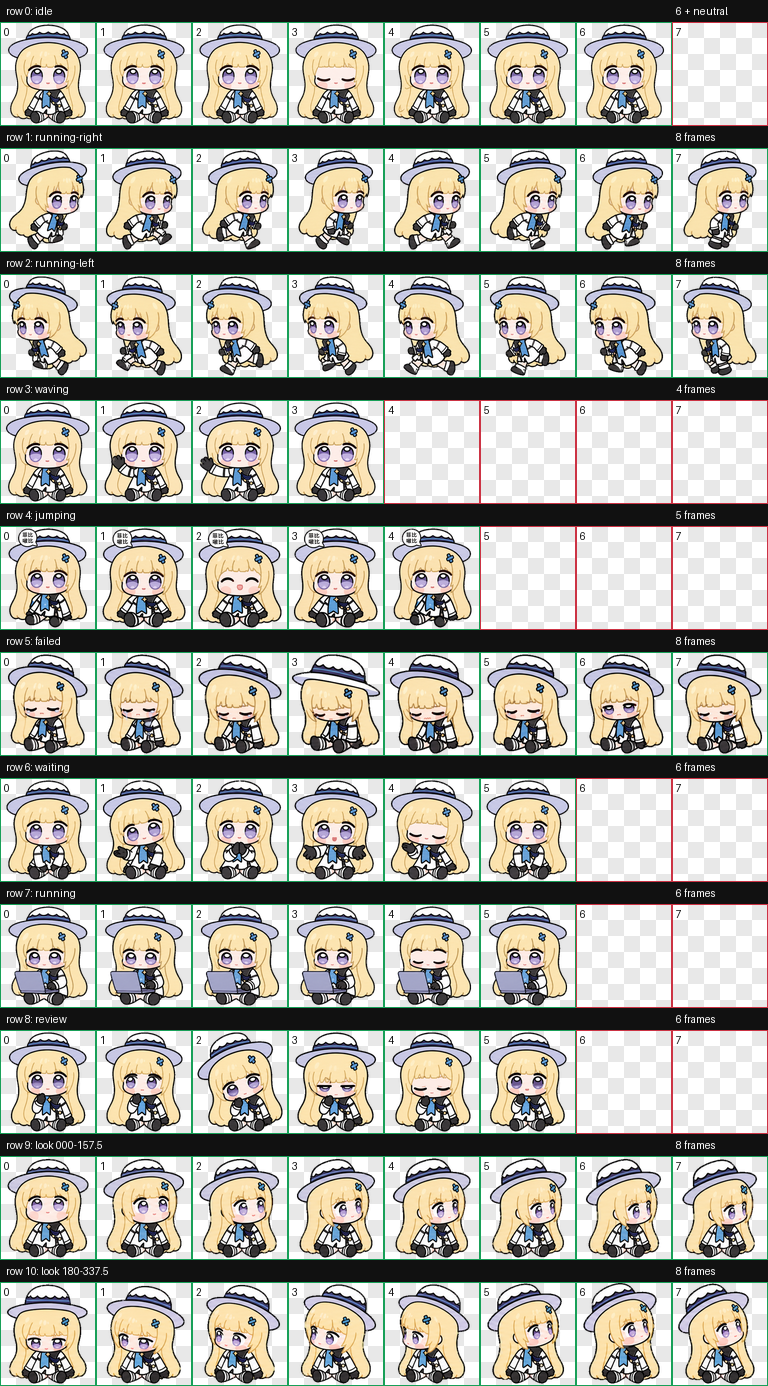
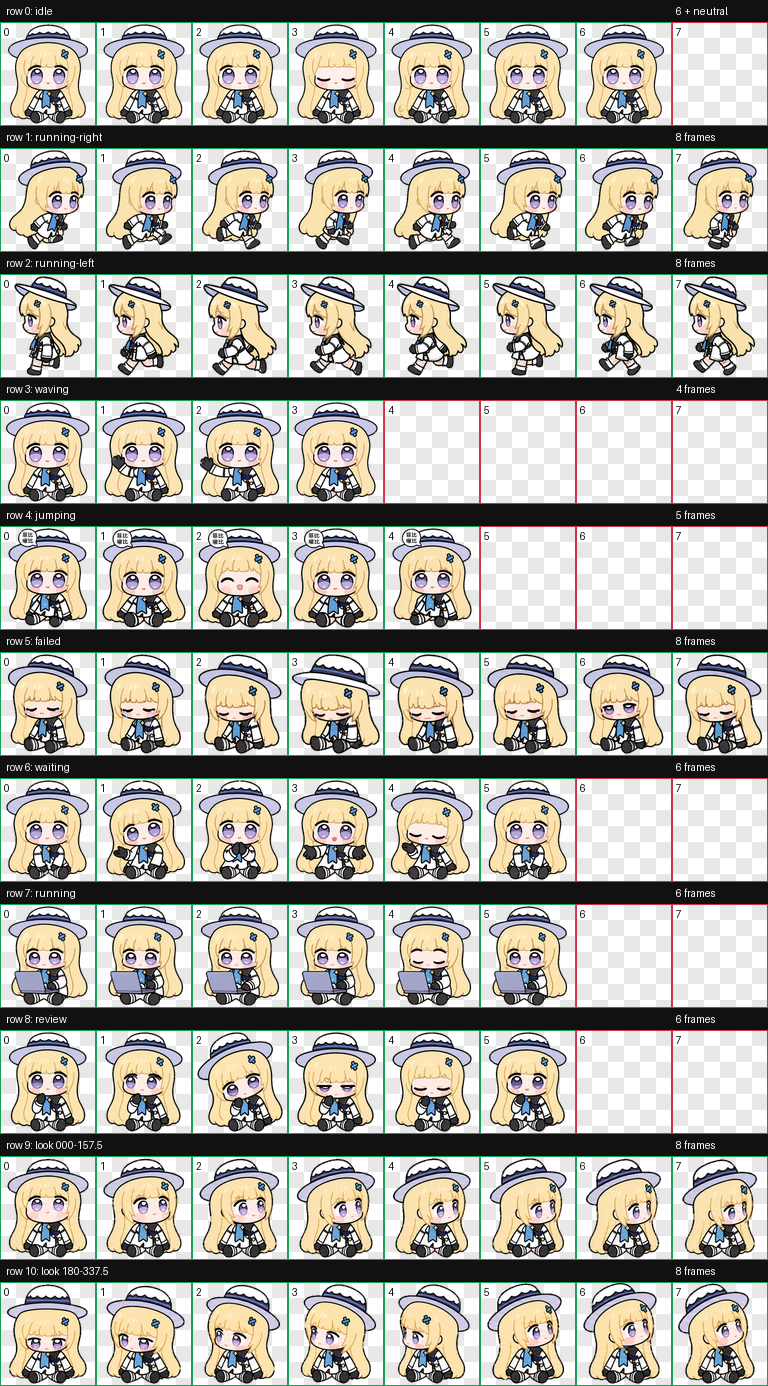
Redraw left-moving animation

Changed region(s): [[0.125, 0.1861, 1.0, 0.2792], [0.0, 0.1861, 0.125, 0.2792]]

diff --git a/README.en.md b/README.en.md
@@ -6,13 +6,14 @@ Feibi is a chibi animated pet for Codex Desktop. She uses a soft, low-contrast p
 
 ![Feibi state overview](assets/preview-contact-sheet.png)
 
-| Active task | Happy bubble |
-| --- | --- |
-| ![Feibi coding on a laptop](assets/running-laptop.gif) | ![Feibi happy comic bubble](assets/happy-bubble.gif) |
+| Moving left | Active task | Happy bubble |
+| --- | --- | --- |
+| ![Feibi moving left](assets/running-left.gif) | ![Feibi coding on a laptop](assets/running-laptop.gif) | ![Feibi happy comic bubble](assets/happy-bubble.gif) |
 
 ## Features
 
 - Soft pastel, original-like chibi styling
+- Independently redrawn left-moving animation instead of a flipped right-moving row
 - Laptop coding animation during an active task
 - Happy hover animation with a “菲比 / 啾比” speech bubble
 - 16 pointer-facing look directions

diff --git a/README.md b/README.md
@@ -6,13 +6,14 @@
 
 ![菲比状态总览](assets/preview-contact-sheet.png)
 
-| 任务进行中 | 开心气泡 |
-| --- | --- |
-| ![菲比抱着电脑敲代码](assets/running-laptop.gif) | ![菲比啾比漫画气泡](assets/happy-bubble.gif) |
+| 向左移动 | 任务进行中 | 开心气泡 |
+| --- | --- | --- |
+| ![菲比向左移动](assets/running-left.gif) | ![菲比抱着电脑敲代码](assets/running-laptop.gif) | ![菲比啾比漫画气泡](assets/happy-bubble.gif) |
 
 ## 功能
 
 - 柔和、简洁、贴近原图的奶油金与淡紫 Q 版造型
+- 独立重绘的向左移动动画，不使用向右动画翻转
 - 任务进行中抱着笔记本电脑敲代码
 - 鼠标悬停时开心跳动，并显示“菲比 / 啾比”漫画气泡
 - 16 个鼠标指针注视方向

diff --git a/docs/superpowers/plans/2026-08-07-animation-consistency-and-repo-move.md b/docs/superpowers/plans/2026-08-07-animation-consistency-and-repo-move.md
@@ -1,5 +1,7 @@
 # Feibi Animation Consistency And Repository Move Implementation Plan
 
+> Superseded for `running-left` by version 1.0.2: the shipped row is now independently redrawn and is no longer a mirror of `running-right`.
+
 > **For agentic workers:** REQUIRED SUB-SKILL: Use superpowers:subagent-driven-development (recommended) or superpowers:executing-plans to implement this plan task-by-task. Steps use checkbox (`- [ ]`) syntax for tracking.
 
 **Goal:** Rebuild Feibi's affected atlas rows exclusively from approved existing frames, then place both independent repositories under one new parent directory in `learning`.

diff --git a/CHANGELOG.md b/CHANGELOG.md
@@ -1,5 +1,12 @@
 # Changelog
 
+## 1.0.2 - 2026-08-08
+
+- Replaces the mirrored left-moving row with eight independently redrawn screen-left frames.
+- Preserves Feibi's original side-view hat, hair clip, long hair, palette, and asymmetric outfit details.
+- Updates the atlas contact sheet and adds a public left-moving animation preview.
+- Removes the obsolete mirror-rebuild maintenance script.
+
 ## 1.0.1 - 2026-08-07
 
 - Rebuilds the left-moving animation as a frame-by-frame horizontal mirror of the approved right-moving animation.
